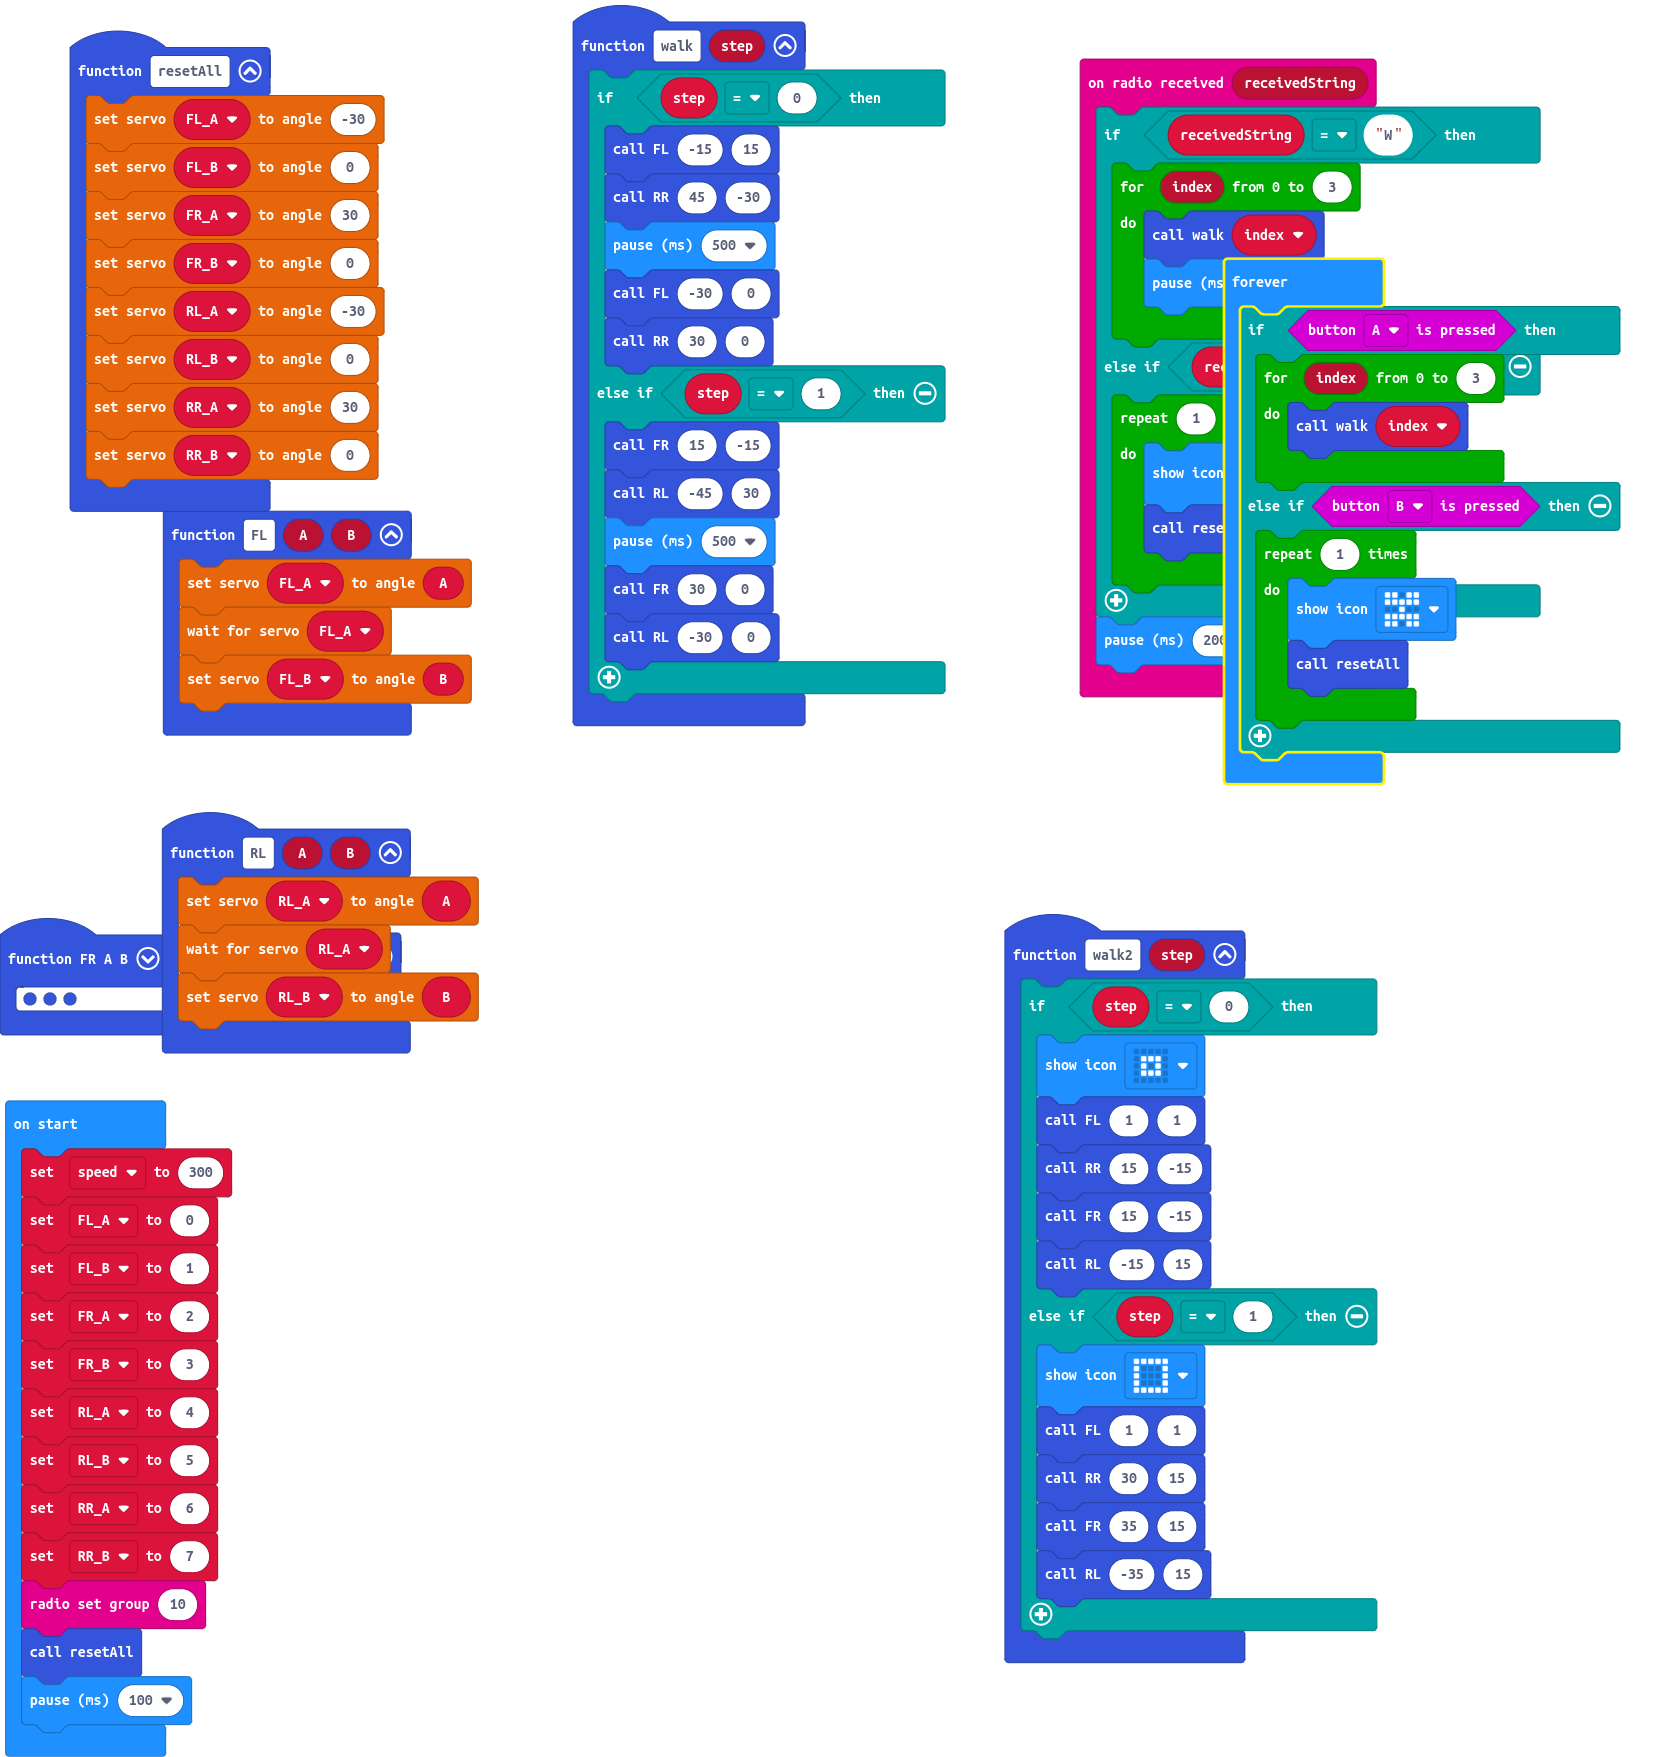
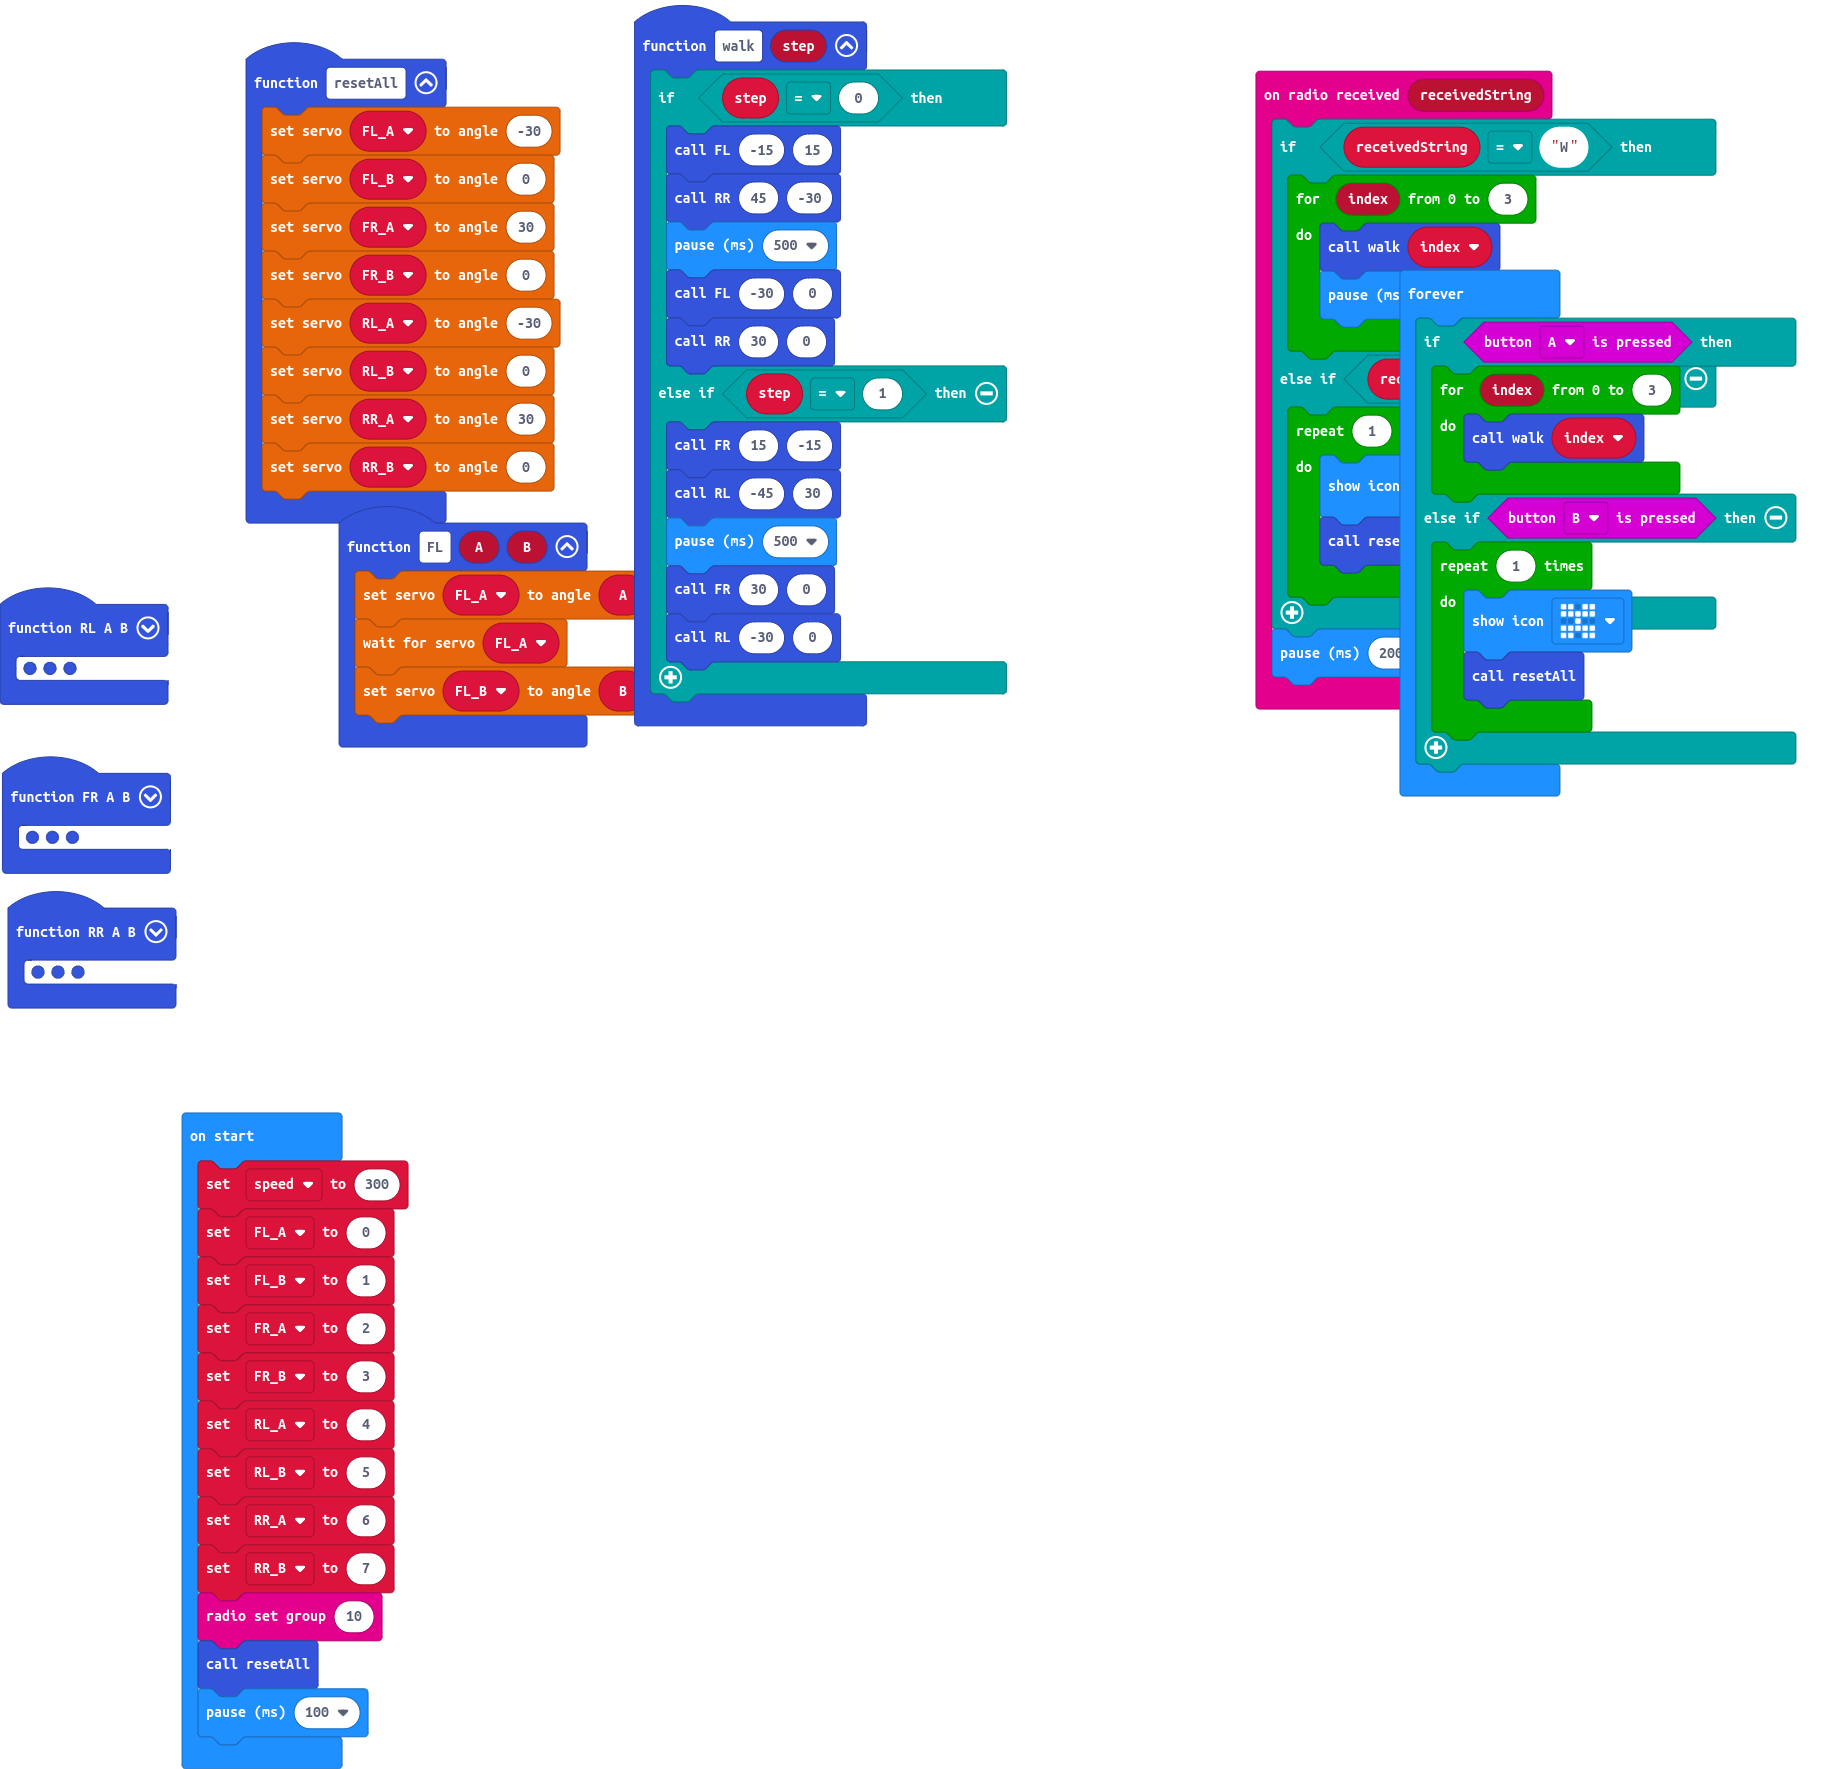
Update main.blocks, main.ts

diff --git a/main.ts b/main.ts
@@ -38,21 +38,6 @@ function RR (A: number, B: number) {
     ServoBit.waitServo(RR_A)
     ServoBit.setServo(RR_B, B)
 }
-function walk2 (step: number) {
-    if (step == 0) {
-        basic.showIcon(IconNames.SmallSquare)
-        FL(1, 1)
-        RR(15, -15)
-        FR(15, -15)
-        RL(-15, 15)
-    } else if (step == 1) {
-        basic.showIcon(IconNames.Square)
-        FL(1, 1)
-        RR(30, 15)
-        FR(35, 15)
-        RL(-35, 15)
-    }
-}
 radio.onReceivedString(function (receivedString) {
     if (receivedString == "W") {
         for (let index = 0; index <= 3; index++) {
